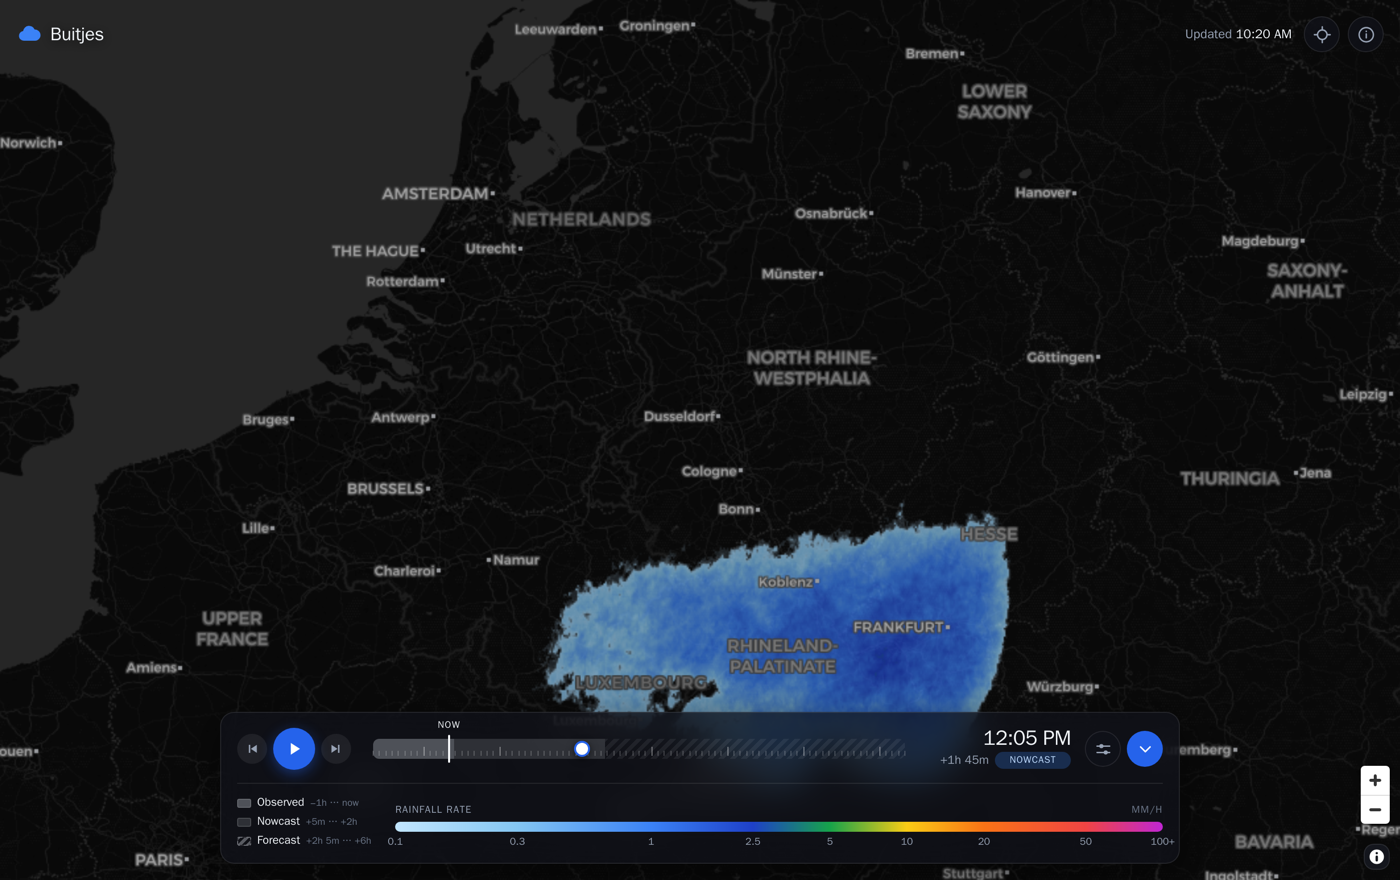
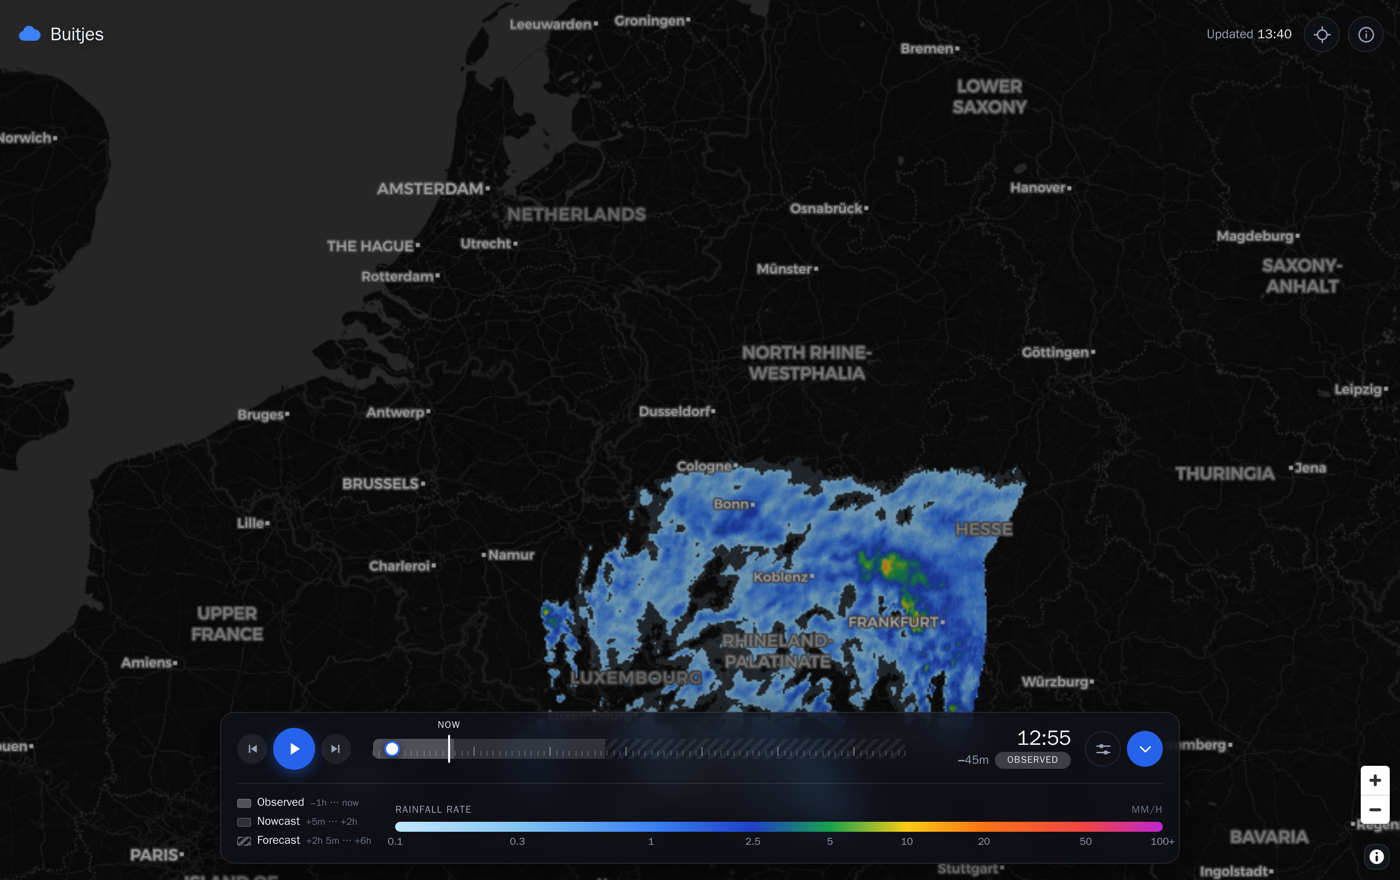
Refresh the README screenshots, and make the stats agree with the sentence
The old shots predate 24-hour time, the radar card, the light-theme fix and
the scrubber, and the forecast one showed twelve-hour axis labels.

Retaking them turned up a real inconsistency, which is a decent argument for
looking at your own screenshots: the headline said "peaking at 0.7 mm/h" and
PEAK RATE directly under it said 1.9. Both were true. The sentence describes
the spell ahead; the stats spanned the whole series, including the last hour
of radar — so the 1.9 was a shower that had already passed. Every series on
that page starts before now, and the stats are a forecast, so they now count
from the reference time forward like the sentence does. Total expected drops
with them, which is the point: it is what you are going to get, not what has
already fallen.

Both shots are of a clicked coordinate over today's rain rather than a saved
location, since the forecast page prints the coordinates it resolved.

diff --git a/frontend/js/forecast.js b/frontend/js/forecast.js
@@ -205,7 +205,16 @@ function renderSummaryStats(document_) {
     const stats = $('summary-stats');
     stats.innerHTML = '';
 
-    const rain = document_.precipitation?.series ?? [];
+    // Every series here starts before now — the rain chart carries the last
+    // hour of radar, the conditions charts a few hours of history — and these
+    // stats are a forecast, so they count from the reference time forward.
+    // They used to span the whole series, which put "Peak rate 1.9 mm/h" under
+    // a sentence saying "peaking at 0.7 mm/h": both true, one describing a
+    // shower that had already passed.
+    const reference = document_.reference_time;
+    const ahead = (block) => (block?.series ?? []).filter((entry) => entry.t >= reference);
+
+    const rain = ahead(document_.precipitation);
     const peak = rain.length ? Math.max(...rain.map((entry) => entry.median)) : 0;
     // 5-minute steps, so a rate in mm/h contributes a twelfth of an hour.
     const total = rain.reduce((sum, entry) => sum + entry.median / 12, 0);
@@ -214,12 +223,11 @@ function renderSummaryStats(document_) {
         ['Total expected', `${total.toFixed(1)} mm`],
     ];
     for (const key of ['temperature', 'wind', 'solar']) {
-        const block = document_[key];
-        if (!block?.series?.length) continue;
-        const medians = block.series.map((entry) => entry.median);
+        const medians = ahead(document_[key]).map((entry) => entry.median);
+        if (!medians.length) continue;
         items.push([
             key === 'solar' ? 'Peak solar' : key === 'wind' ? 'Peak wind' : 'Max temp',
-            `${Math.max(...medians)} ${block.unit}`,
+            `${Math.max(...medians)} ${document_[key].unit}`,
         ]);
     }
 

diff --git a/README.md b/README.md
@@ -33,7 +33,7 @@ as twitchy as convective rain is a number that will be wrong.
 - **A JSON API** shaped for a homepage dashboard widget.
 - **Five basemaps**, dark through high-contrast, none needing an API key.
 
-![The forecast detail page, with ensemble spread on every series](docs/images/forecast.png)
+![The forecast detail page: the looping radar, and ensemble spread on every series](docs/images/forecast.png)
 
 ## How it works
 
